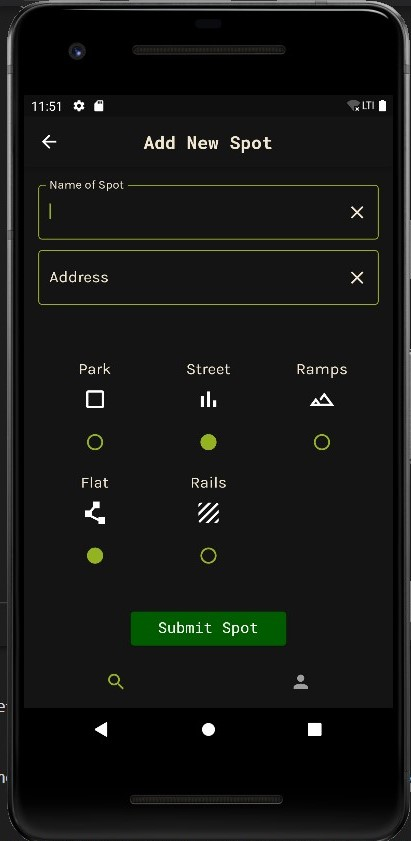
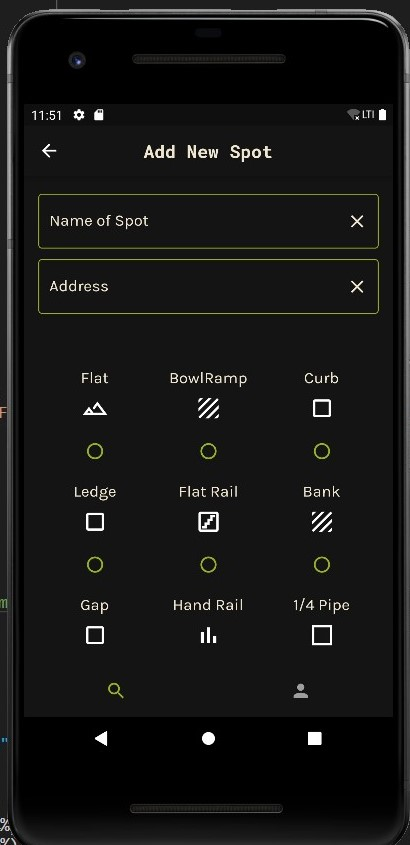
updated working screenshots

diff --git a/README.md b/README.md
@@ -7,7 +7,8 @@ copy + paste into there
 ## Sprint 6
 #### Goal: Allow users to add custom skate spots
 ![addSpotToMap](./screenshots/sprint6/addSpotToMap.jpg)
-![addSpotForm](./screenshots/sprint6/addSpotForm.jpg)
+![addSpotForm1](./screenshots/sprint6/addSpotForm.jpg)
+![addSpotForm2](./screenshots/sprint6/addSpotForm_scrolled.jpg)
 ![confirmDialog](./screenshots/sprint6/confirmSpot.jpg)
 ![loadingScreen](./screenshots/sprint6/loadingScreen.jpg)
 
